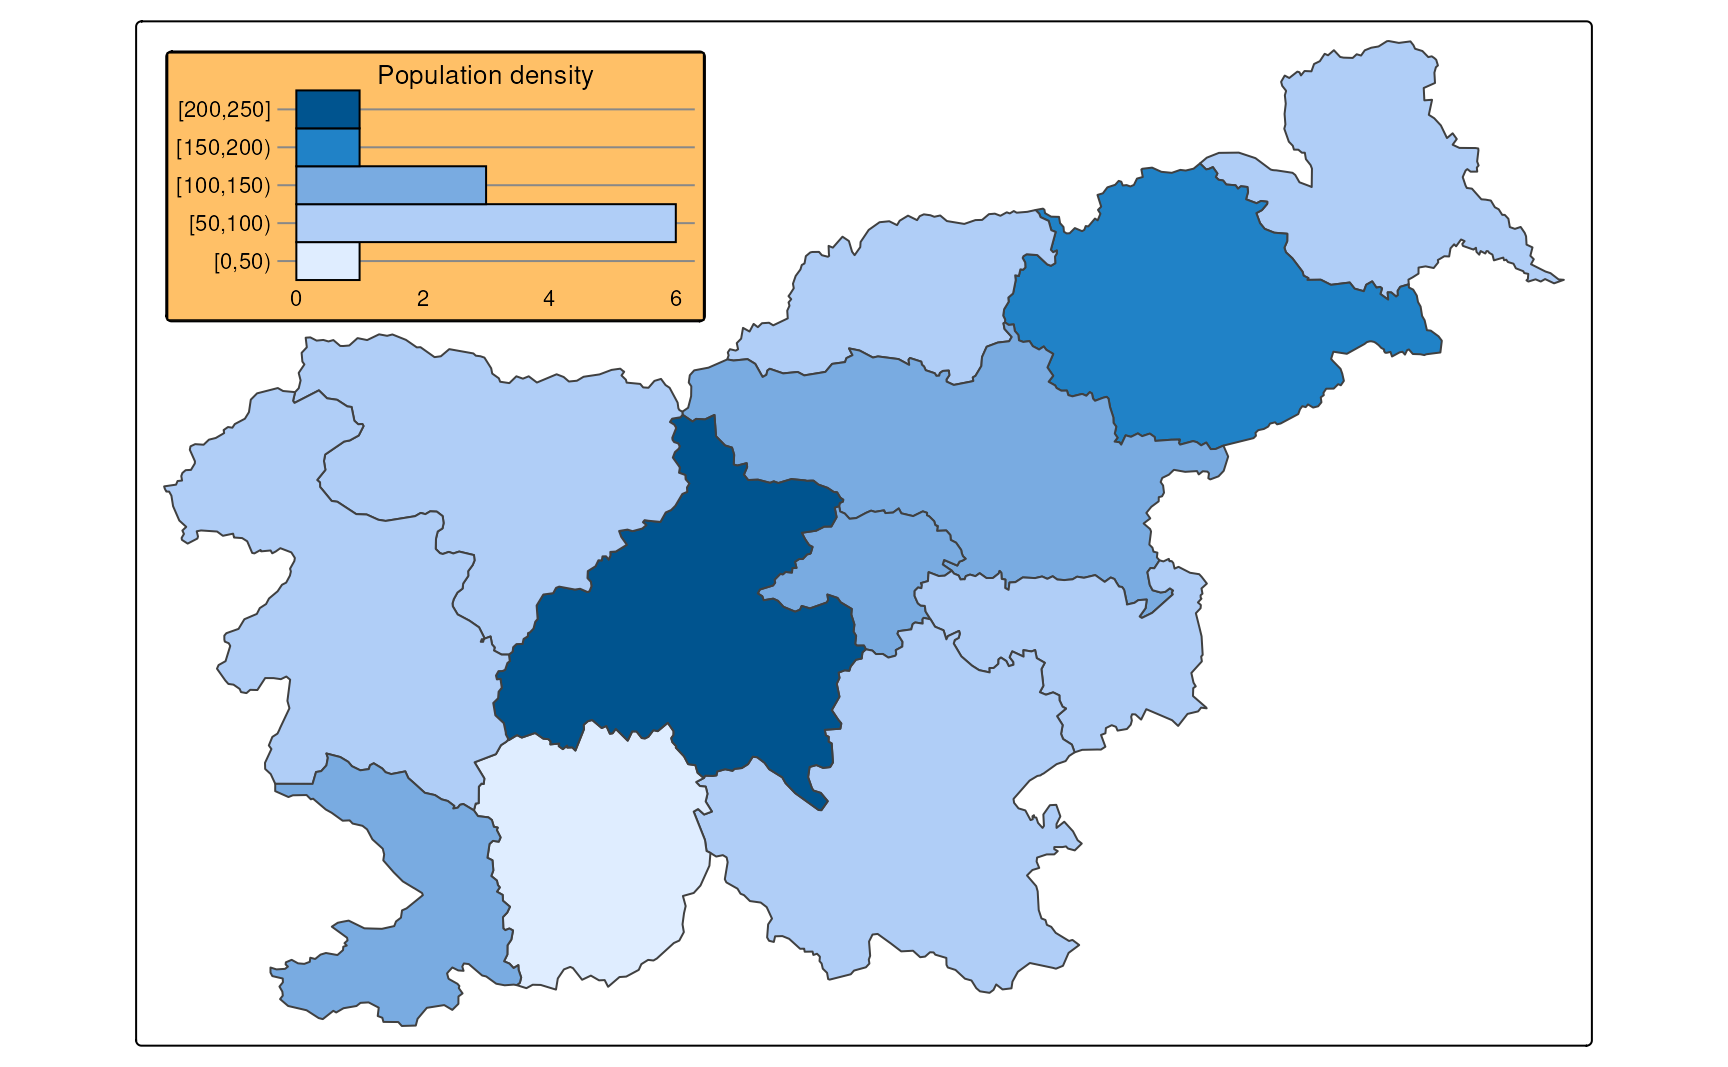
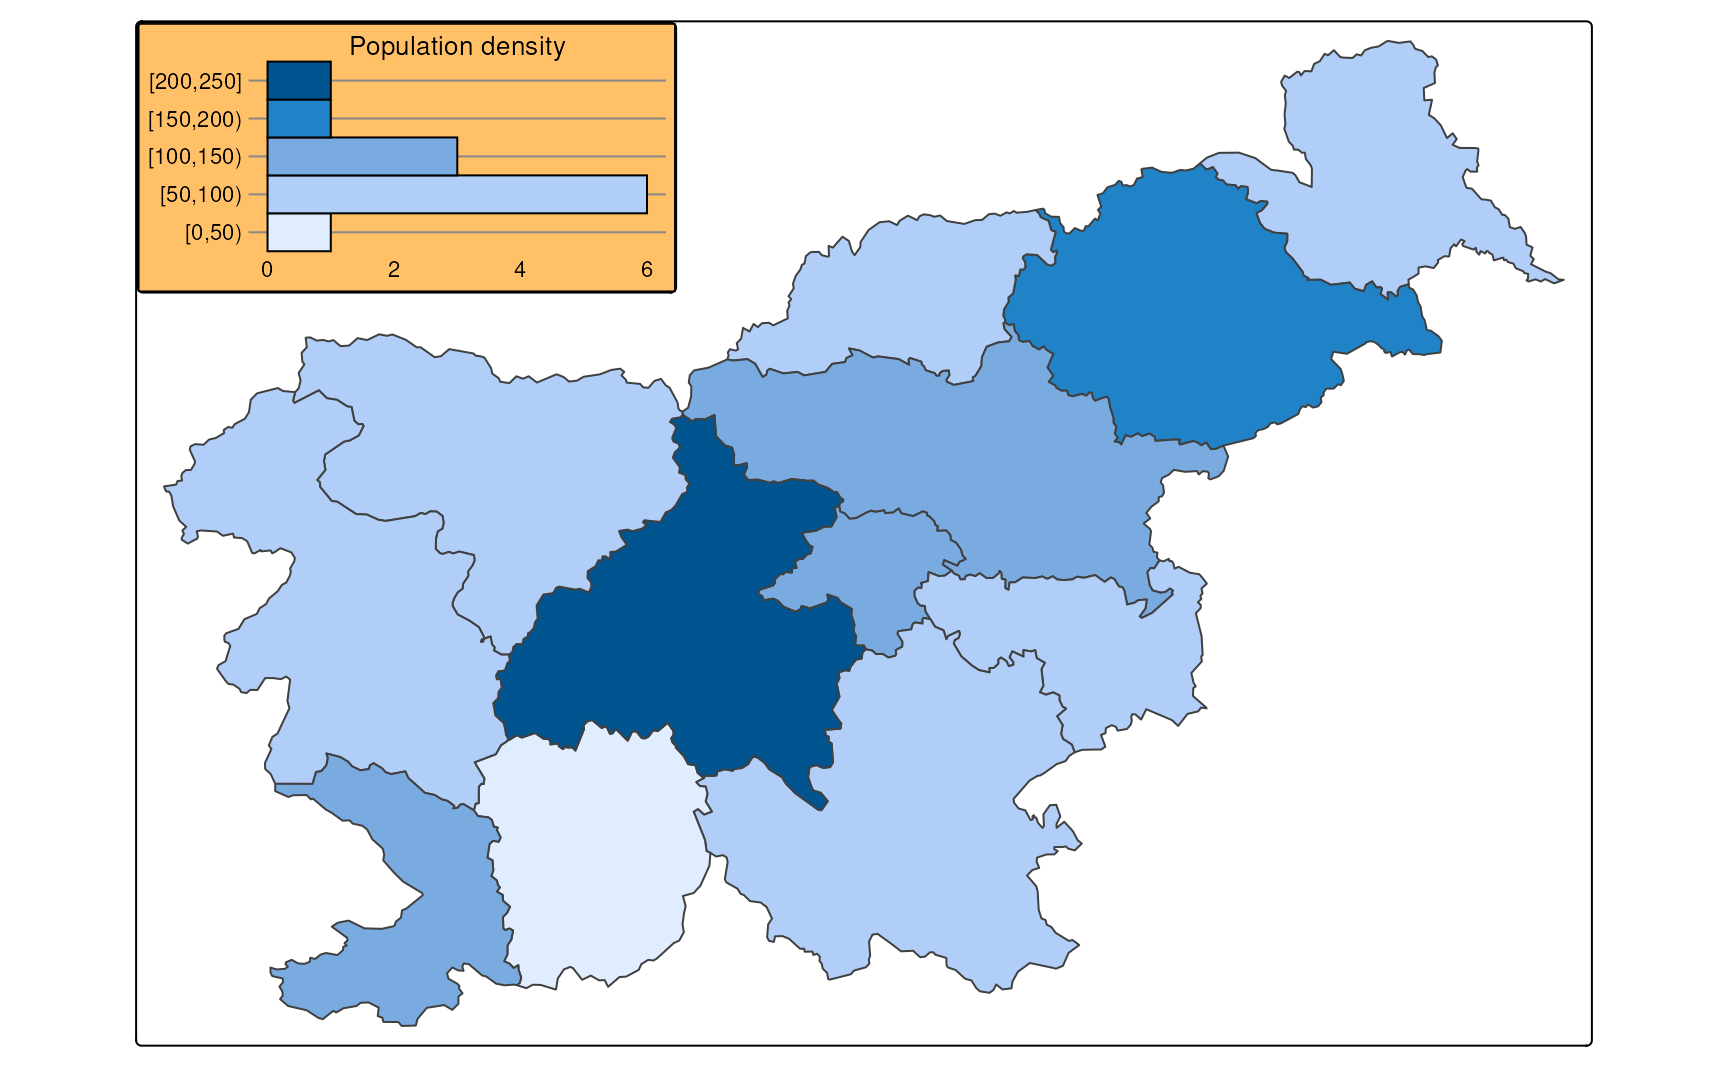
Deploy commit: cleans the charts section 3ad5d1bdd52c59bbdd1f48874fa5467f02f8c33f

Changed region(s): [[0.0625, 0.0, 0.4062, 0.3093]]

diff --git a/charts.html b/charts.html
@@ -560,9 +560,9 @@ Figure&nbsp;14.1: Histogram added to a map to represent the distribution of a va
 <span><span class="fu"><a href="https://r-tmap.github.io/tmap/reference/tm_shape.html">tm_shape</a></span><span class="op">(</span><span class="va">slo_regions</span><span class="op">)</span> <span class="op">+</span></span>
 <span>  <span class="fu"><a href="https://r-tmap.github.io/tmap/reference/tm_polygons.html">tm_polygons</a></span><span class="op">(</span>fill <span class="op">=</span> <span class="st">"pop_dens"</span>,</span>
 <span>              fill.chart <span class="op">=</span> <span class="fu"><a href="https://r-tmap.github.io/tmap/reference/tm_chart.html">tm_chart_donut</a></span><span class="op">(</span><span class="op">)</span><span class="op">)</span></span></code><button title="Copy to Clipboard" class="code-copy-button"><i class="bi"></i></button></pre></div>
-<div class="cell quarto-layout-panel" data-layout-nrow="3" data-layout-align="center">
+<div class="cell quarto-layout-panel" data-layout-ncol="3" data-layout-align="center">
 <div class="quarto-layout-row">
-<div class="cell-output-display quarto-layout-cell" style="flex-basis: 100.0%;justify-content: center;">
+<div class="cell-output-display quarto-layout-cell" style="flex-basis: 33.3%;justify-content: center;">
 <div id="fig-chart-num-1" class="quarto-float quarto-figure quarto-figure-center anchored" data-fig-align="center">
 <figure class="quarto-float quarto-float-fig figure"><div aria-describedby="fig-chart-num-1-caption-0ceaefa1-69ba-4598-a22c-09a6ac19f8ca">
 <img src="figures/fig-chart-num-1.png" class="img-fluid quarto-figure quarto-figure-center figure-img" style="width:100.0%">
@@ -572,9 +572,7 @@ Figure&nbsp;14.2: Charts for numerical data.
 </figcaption></figure>
 </div>
 </div>
-</div>
-<div class="quarto-layout-row">
-<div class="cell-output-display quarto-layout-cell" style="flex-basis: 100.0%;justify-content: center;">
+<div class="cell-output-display quarto-layout-cell" style="flex-basis: 33.3%;justify-content: center;">
 <div id="fig-chart-num-2" class="quarto-float quarto-figure quarto-figure-center anchored" data-fig-align="center">
 <figure class="quarto-float quarto-float-fig figure"><div aria-describedby="fig-chart-num-2-caption-0ceaefa1-69ba-4598-a22c-09a6ac19f8ca">
 <img src="figures/fig-chart-num-2.png" class="img-fluid quarto-figure quarto-figure-center figure-img" style="width:100.0%">
@@ -584,9 +582,7 @@ Figure&nbsp;14.3: Charts for numerical data.
 </figcaption></figure>
 </div>
 </div>
-</div>
-<div class="quarto-layout-row">
-<div class="cell-output-display quarto-layout-cell" style="flex-basis: 100.0%;justify-content: center;">
+<div class="cell-output-display quarto-layout-cell" style="flex-basis: 33.3%;justify-content: center;">
 <div id="fig-chart-num-3" class="quarto-float quarto-figure quarto-figure-center anchored" data-fig-align="center">
 <figure class="quarto-float quarto-float-fig figure"><div aria-describedby="fig-chart-num-3-caption-0ceaefa1-69ba-4598-a22c-09a6ac19f8ca">
 <img src="figures/fig-chart-num-3.png" class="img-fluid quarto-figure quarto-figure-center figure-img" style="width:100.0%">
@@ -606,9 +602,9 @@ Figure&nbsp;14.4: Charts for numerical data.
 <span><span class="fu"><a href="https://r-tmap.github.io/tmap/reference/tm_shape.html">tm_shape</a></span><span class="op">(</span><span class="va">slo_regions</span><span class="op">)</span> <span class="op">+</span></span>
 <span>  <span class="fu"><a href="https://r-tmap.github.io/tmap/reference/tm_polygons.html">tm_polygons</a></span><span class="op">(</span>fill <span class="op">=</span> <span class="st">"region_group"</span>,</span>
 <span>              fill.chart <span class="op">=</span> <span class="fu"><a href="https://r-tmap.github.io/tmap/reference/tm_chart.html">tm_chart_donut</a></span><span class="op">(</span><span class="op">)</span><span class="op">)</span></span></code><button title="Copy to Clipboard" class="code-copy-button"><i class="bi"></i></button></pre></div>
-<div class="cell quarto-layout-panel" data-layout-nrow="2" data-layout-align="center">
+<div class="cell quarto-layout-panel" data-layout-ncol="2" data-layout-align="center">
 <div class="quarto-layout-row">
-<div class="cell-output-display quarto-layout-cell" style="flex-basis: 100.0%;justify-content: center;">
+<div class="cell-output-display quarto-layout-cell" style="flex-basis: 50.0%;justify-content: center;">
 <div id="fig-chart-cat-1" class="quarto-float quarto-figure quarto-figure-center anchored" data-fig-align="center">
 <figure class="quarto-float quarto-float-fig figure"><div aria-describedby="fig-chart-cat-1-caption-0ceaefa1-69ba-4598-a22c-09a6ac19f8ca">
 <img src="figures/fig-chart-cat-1.png" class="img-fluid quarto-figure quarto-figure-center figure-img" style="width:100.0%">
@@ -618,9 +614,7 @@ Figure&nbsp;14.5: Charts for categorical data.
 </figcaption></figure>
 </div>
 </div>
-</div>
-<div class="quarto-layout-row">
-<div class="cell-output-display quarto-layout-cell" style="flex-basis: 100.0%;justify-content: center;">
+<div class="cell-output-display quarto-layout-cell" style="flex-basis: 50.0%;justify-content: center;">
 <div id="fig-chart-cat-2" class="quarto-float quarto-figure quarto-figure-center anchored" data-fig-align="center">
 <figure class="quarto-float quarto-float-fig figure"><div aria-describedby="fig-chart-cat-2-caption-0ceaefa1-69ba-4598-a22c-09a6ac19f8ca">
 <img src="figures/fig-chart-cat-2.png" class="img-fluid quarto-figure quarto-figure-center figure-img" style="width:100.0%">
@@ -682,7 +676,7 @@ Figure&nbsp;14.8: Customizing charts with ggplot2.
 <span>                                           plot.title <span class="op">=</span> <span class="fu">ggplot2</span><span class="fu">::</span><span class="fu"><a href="https://ggplot2.tidyverse.org/reference/element.html">element_text</a></span><span class="op">(</span>size <span class="op">=</span> <span class="fl">10</span><span class="op">)</span><span class="op">)</span>,</span>
 <span>                                     <span class="fu"><a href="https://ggplot2.tidyverse.org/reference/coord_flip.html">coord_flip</a></span><span class="op">(</span><span class="op">)</span>,</span>
 <span>                                     <span class="fu"><a href="https://ggplot2.tidyverse.org/reference/labs.html">labs</a></span><span class="op">(</span>title <span class="op">=</span> <span class="st">"Population density"</span><span class="op">)</span><span class="op">)</span>,</span>
-<span>                position <span class="op">=</span> <span class="fu"><a href="https://r-tmap.github.io/tmap/reference/tm_pos.html">tm_pos_in</a></span><span class="op">(</span><span class="st">"left"</span>, <span class="st">"top"</span><span class="op">)</span>,</span>
+<span>                position <span class="op">=</span> <span class="fu"><a href="https://r-tmap.github.io/tmap/reference/tm_pos.html">tm_pos_in</a></span><span class="op">(</span><span class="st">"LEFT"</span>, <span class="st">"TOP"</span><span class="op">)</span>,</span>
 <span>                width <span class="op">=</span> <span class="fl">20</span>,</span>
 <span>              <span class="op">)</span>,</span>
 <span>              fill.legend <span class="op">=</span> <span class="fu"><a href="https://r-tmap.github.io/tmap/reference/tm_legend.html">tm_legend</a></span><span class="op">(</span>show <span class="op">=</span> <span class="cn">FALSE</span><span class="op">)</span><span class="op">)</span></span></code><button title="Copy to Clipboard" class="code-copy-button"><i class="bi"></i></button></pre></div>

diff --git a/map-projections.html b/map-projections.html
@@ -419,7 +419,7 @@ gtag('config', 'G-ER2GMPEJNF', { 'anonymize_ip': true});
 <span>  <span class="fu"><a href="https://r-tmap.github.io/tmap/reference/tm_crs.html">tm_crs</a></span><span class="op">(</span><span class="st">"+proj=eck4"</span><span class="op">)</span> <span class="op">+</span></span>
 <span>  <span class="fu"><a href="https://r-tmap.github.io/tmap/reference/tm_layout.html">tm_layout</a></span><span class="op">(</span>bg.color <span class="op">=</span> <span class="st">"lightblue"</span>,</span>
 <span>            earth_boundary <span class="op">=</span> <span class="cn">TRUE</span><span class="op">)</span></span></code><button title="Copy to Clipboard" class="code-copy-button"><i class="bi"></i></button></pre></div>
-<div class="cell quarto-layout-panel" data-layout-nrow="2" data-layout-align="center" data-ecbo="false">
+<div class="cell quarto-layout-panel" data-layout-align="center" data-layout-nrow="2" data-ecbo="false">
 <div class="quarto-layout-row">
 <div class="cell-output-display quarto-layout-cell" style="flex-basis: 100.0%;justify-content: center;">
 <div id="fig-mproj12-1" class="quarto-float quarto-figure quarto-figure-center anchored" data-fig-align="center" width="100%">
